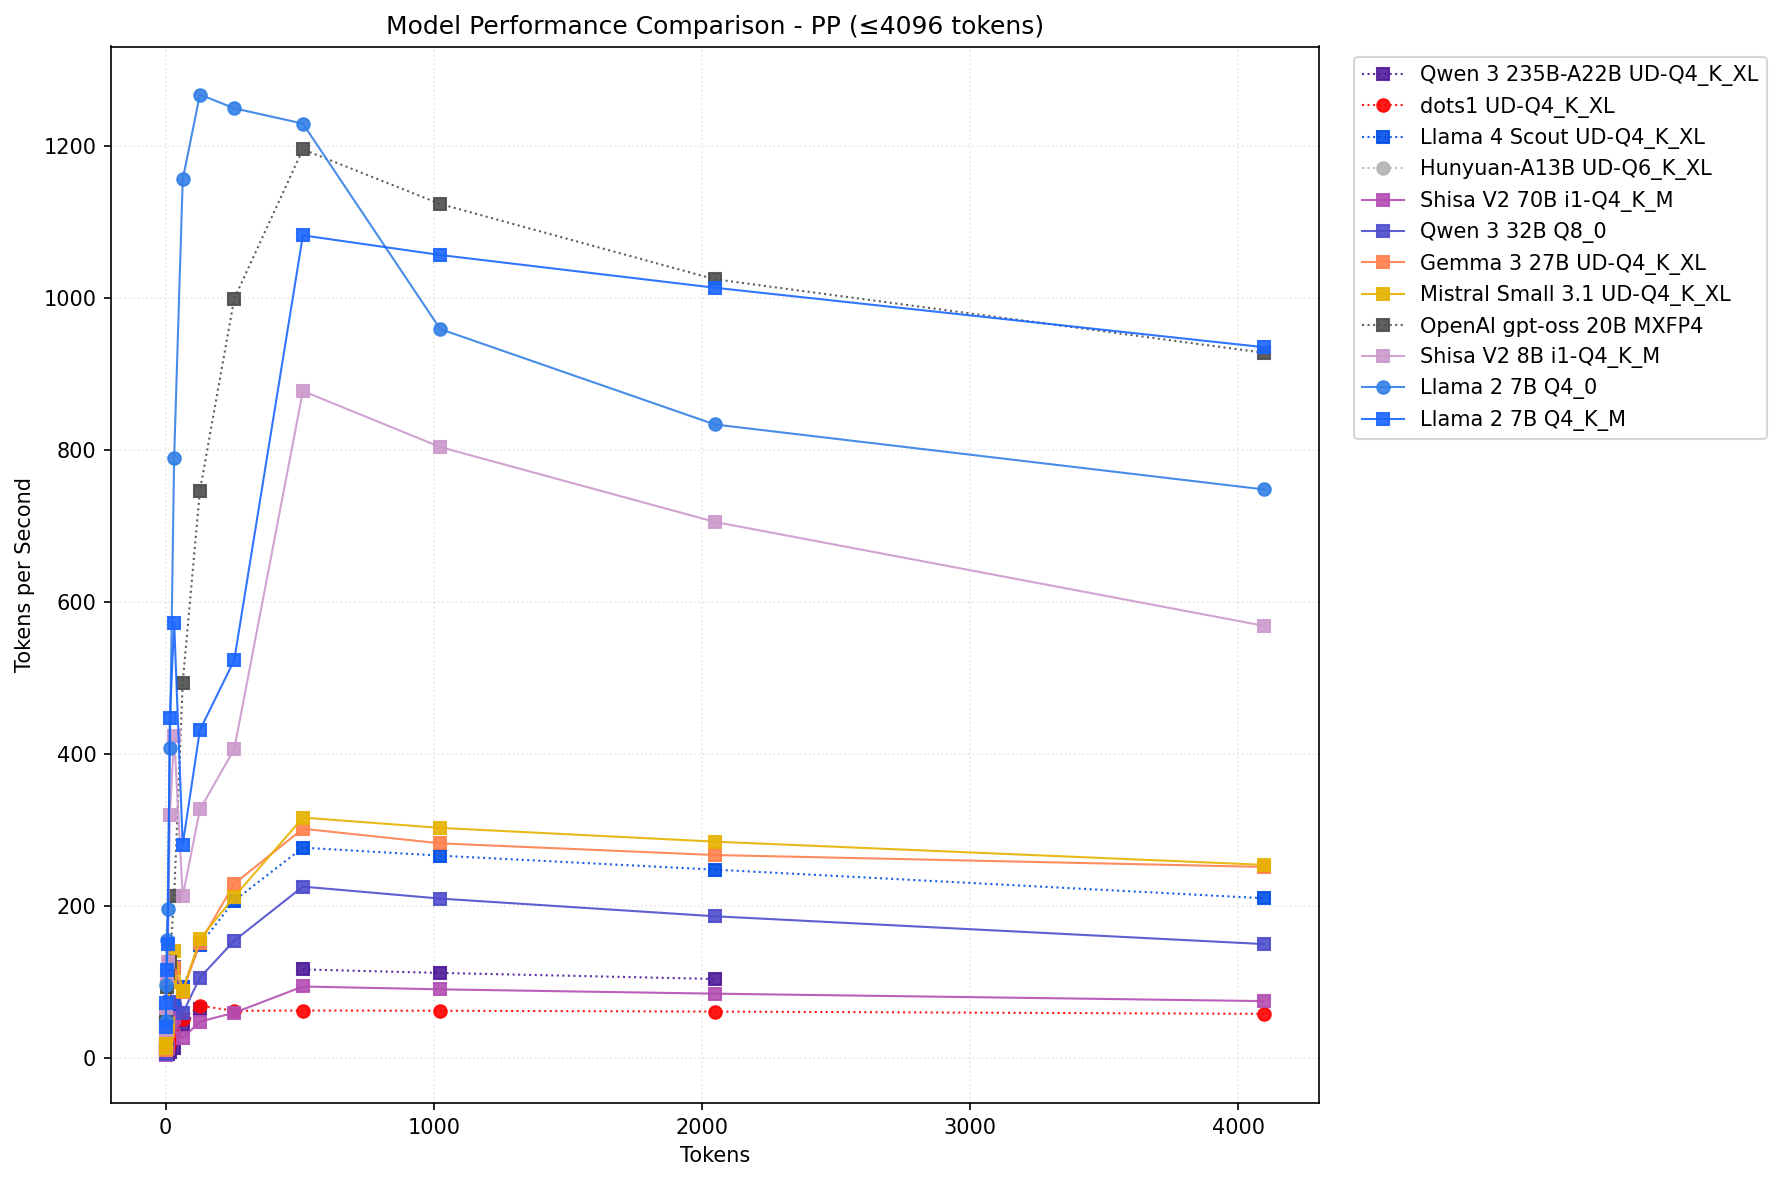
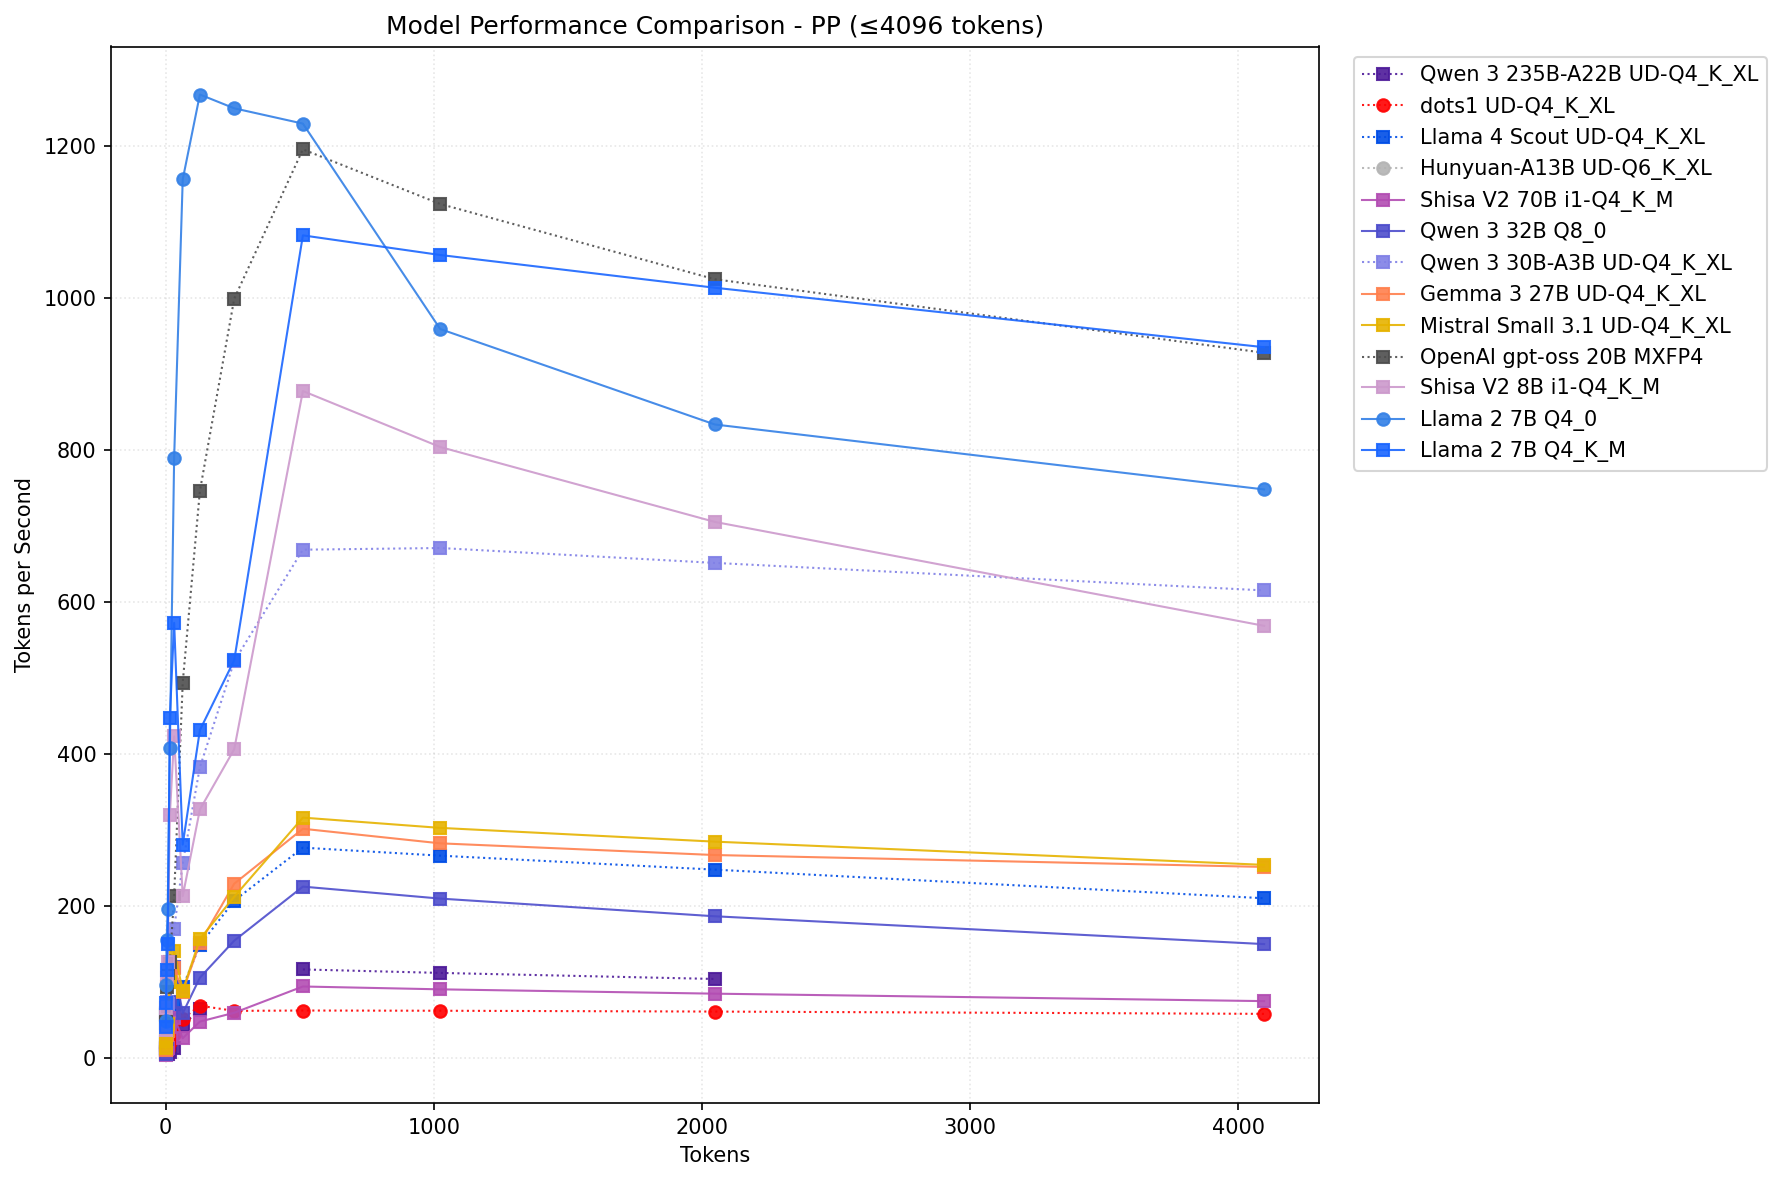
qwen3 30b-a3b pp fix

Changed region(s): [[0.7716, 0.2134, 0.9568, 0.3963], [0.1543, 0.4572, 0.1852, 0.4877], [0.0926, 0.6401, 0.1235, 0.6706]]

diff --git a/llm-bench/create-summary-readme.py b/llm-bench/create-summary-readme.py
@@ -67,7 +67,7 @@ MODELS = {
         "arch": "Qwen 3 MoE",
         "weights": 30,
         "active": 3,
-        "pp": "rocmwmma_hipblaslt_fa",
+        "pp": "rocwmma_hipblaslt_fa",
         "tg": "vulkan_b=256",
         "line": {
             "color": (0.5, 0.5, 0.9, 0.9),

diff --git a/llm-bench/README.md b/llm-bench/README.md
@@ -94,6 +94,7 @@ cmake -S . -B build -DGGML_HIP=ON -DAMDGPU_TARGETS=gfx1151 -DGGML_HIP_ROCWMMA_FA
 | OpenAI gpt-oss 20B MXFP4     | gpt-oss        |            21 |            4 | HIP         | hipBLASLt      |  1196.2 |    46.9 |              12958 |
 | Llama 2 7B Q4_K_M            | Llama 2        |             7 |            7 | HIP rocWMMA | fa=1 hipBLASLt |  1083.0 |    41.3 |               4720 |
 | Shisa V2 8B i1-Q4_K_M        | Llama 3        |             8 |            8 | HIP         | hipBLASLt      |   878.2 |    37.2 |               5308 |
+| Qwen 3 30B-A3B UD-Q4_K_XL    | Qwen 3 MoE     |            30 |            3 | HIP rocWMMA | fa=1 hipBLASLt |   669.4 |    58.5 |              17533 |
 | Mistral Small 3.1 UD-Q4_K_XL | Mistral 3      |            24 |           24 | HIP         | hipBLASLt      |   316.9 |    13.6 |              14638 |
 | Gemma 3 27B UD-Q4_K_XL       | Gemma 3        |            27 |           27 | HIP         | hipBLASLt      |   302.2 |    10.7 |              17542 |
 | Llama 4 Scout UD-Q4_K_XL     | Llama 4 MoE    |           109 |           17 | HIP         | hipBLASLt      |   277.4 |    17.6 |              59720 |
